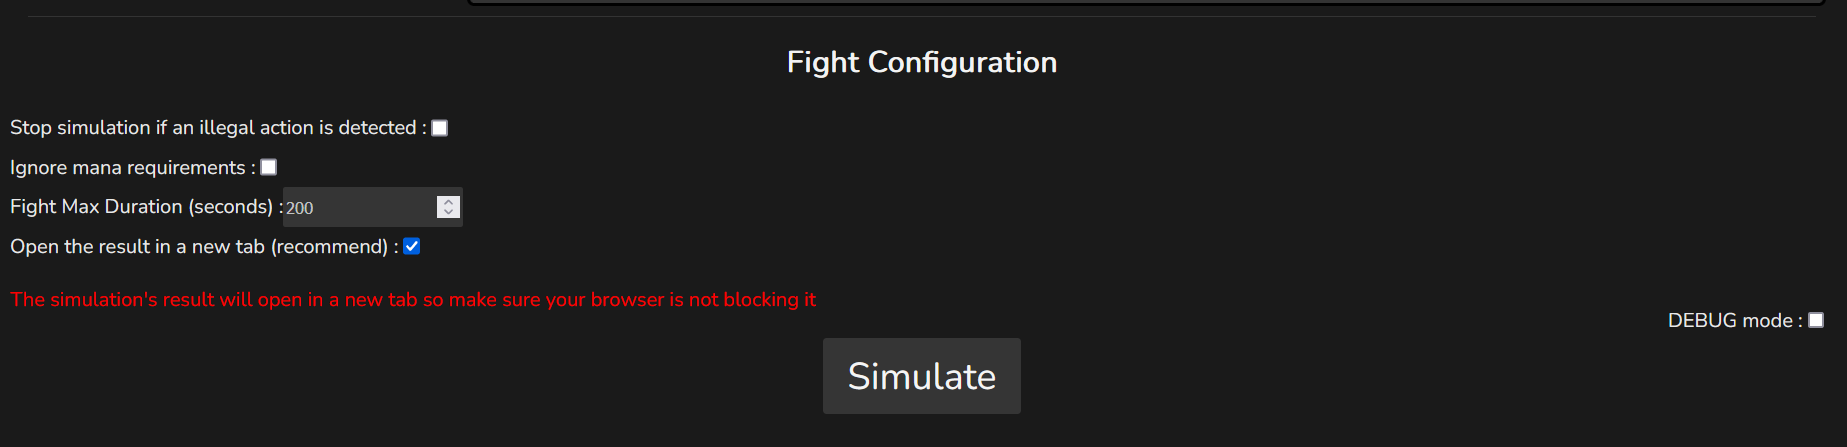
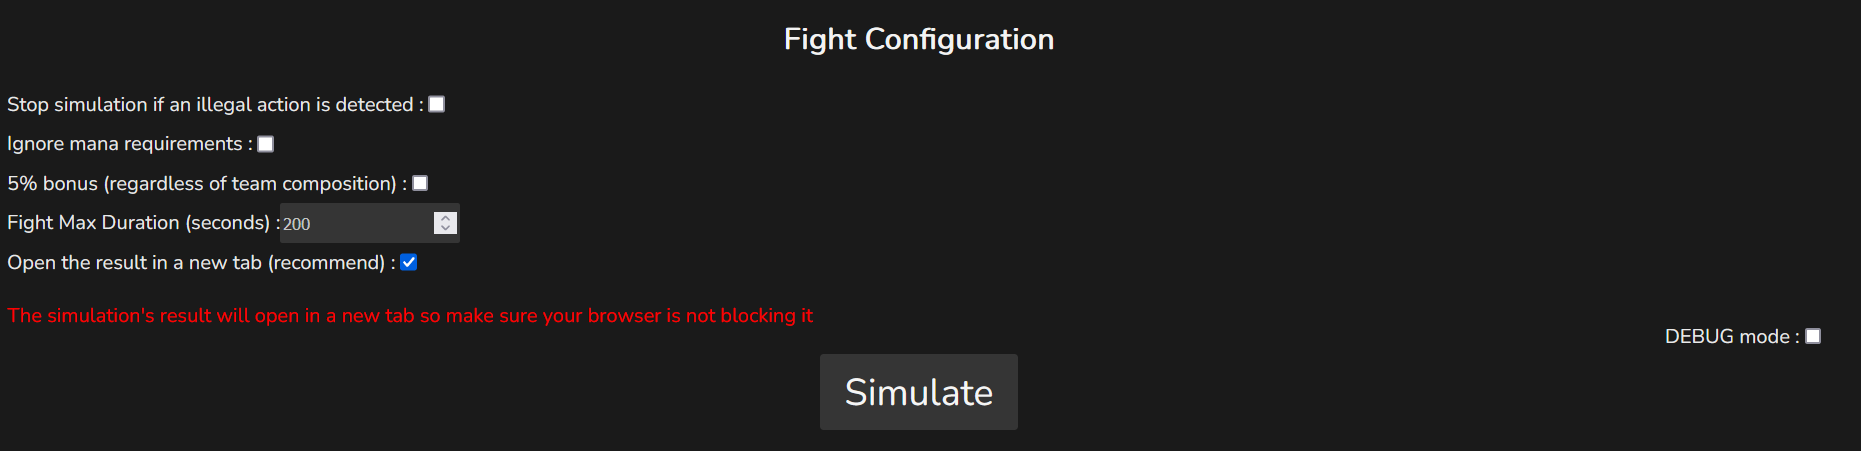
Added option to have max team comp bonus

diff --git a/simulate/templates/simulate/help.html b/simulate/templates/simulate/help.html
@@ -91,11 +91,12 @@
 <h3>Fight Configuration</h3>
 <img class="helpimg" style="width: 800px;" src="{% static 'simulate/help/fight_configuration.png' %}">
 <p>
-    This section lets the user edit the simulation's configuration.
+    This section lets the user edit the simulation's configuration.<br>
     The "Stop simulation if an illegal action is detected" option will stop the simulation at the moment when a player performs an action that they should <br>
     not be able to do in the game. If this option is not checked, the simulation will not stop, but you will be warned in the results that the action set <br>
     for the player cannot be replicated in game. The "Ignore Mana Requirement" option will allow the simulation to ignore MP requirements when using <br>
-    an action, but you will not be warned if the simulation detects at any point that there was not enough MP for an action.The "Fight Max Duration" option is the <br>
+    an action, but you will not be warned if the simulation detects at any point that there was not enough MP for an action. The "5% bonus" option will <br>
+    allow the simulation to give the 5% main stat bonus regardless of the team composition of the simulation. The "Fight Max Duration" option is the <br>
     maximum duration in seconds the fight will last for. Note that if every player has no more actions to do, the simulation will stop before the max duration is reached.<br>
     The "Open result in a new tab" option will display the result page in a new tab. Checking this box is recommended, as the inputs will not be saved if the user leaves and returns to the page.<br>
     The "DEBUG mode" option will display all the DEBUG logs from the simulation. This is not very useful to the common user and should stay unchecked.<br>

diff --git a/simulate/static/simulate/script.js b/simulate/static/simulate/script.js
@@ -18,6 +18,7 @@ var RequirementOn = false;
 var IgnoreMana = false;
 var DebugMode = false;
 var ResultNewTab = true;
+var TeamCompBonus = false;
 /* 
 GLOBAL VARIABLE DECLARATION END
 */     
@@ -318,6 +319,7 @@ else if(NewValue == "false"){
 function UpdateRequirement(){RequirementOn=document.getElementById("RequirementOnCheckBox").checked;}
 function UpdateManaCheck(){IgnoreMana=!IgnoreMana;}
 function UpdateDebugMode(){DebugMode=!DebugMode;}
+function UpdateTeamCompBonus(){TeamCompBonus=!TeamCompBonus}
 function UpdateResultNewTab(){
     ResultNewTab=!ResultNewTab;
     if (ResultNewTab)
@@ -406,7 +408,8 @@ function Submit(){
             "fightInfo" : FightInfo,
             "PlayerList" : PlayerList
         },
-        "mode" : DebugMode
+        "mode" : DebugMode,
+        "TeamCompBonus" : TeamCompBonus
     };
                                  // POST request Logic
     xhr = new XMLHttpRequest();

diff --git a/simulate/templates/simulate/input.html b/simulate/templates/simulate/input.html
@@ -136,6 +136,11 @@
             <input type="checkbox" id="IgnoreManaCheckBox" onchange="UpdateManaCheck()">
         </div>
         <div class="container" style="margin: 0px;"
+        title="This will give the 5% bonus regardless of team composition">
+            <p>5% bonus (regardless of team composition) : </p>
+            <input type="checkbox" id="TeamCompBonus" onchange="UpdateTeamCompBonus()">
+        </div>
+        <div class="container" style="margin: 0px;"
         title="The maximum fight duration of the simulation in seconds. The simulation will stop
         when the timer reaches that value and will return the current results. Must be a positive value and be lower than 300.">
             <p>Fight Max Duration (seconds) : </p>

diff --git a/simulate/views.py b/simulate/views.py
@@ -56,10 +56,13 @@ def SimulationResult(request):
 
         data = deepcopy(request.session['SimulationData'])
         del request.session['SimulationData']
-
                                 # We check if the DEBUG mode is true or not.
-        mode = data["mode"]
-        del data["mode"]        # We remove it so it doesn't interfere with validation.
+        mode = data["mode"]      
+                                # We check if the TeamCompBonus is true or not.
+        TeamBonusComp = data["TeamCompBonus"]
+        del data["mode"]  
+        del data["TeamCompBonus"]  
+                                # We remove it so it doesn't interfere with validation.
 
                                 # Since some fields from the data were not of the right type, 
                                 # we are casting them into the expected type, as they will otherwise
@@ -111,7 +114,7 @@ def SimulationResult(request):
         Event.IgnoreMana = data["data"]["fightInfo"]["IgnoreMana"]
                                     # Simulating the fight and logging if DEBUG mode
         if mode: logging.getLogger("ffxivcalc").setLevel(level=logging.DEBUG)
-        result_str, fig = Event.SimulateFight(0.01,data["data"]["fightInfo"]["fightDuration"], vocal=False, PPSGraph=False)
+        result_str, fig = Event.SimulateFight(0.01,data["data"]["fightInfo"]["fightDuration"], vocal=False, PPSGraph=False, MaxTeamBonus=TeamBonusComp)
         if mode: 
                                 # Reverting changes
             mode = False
